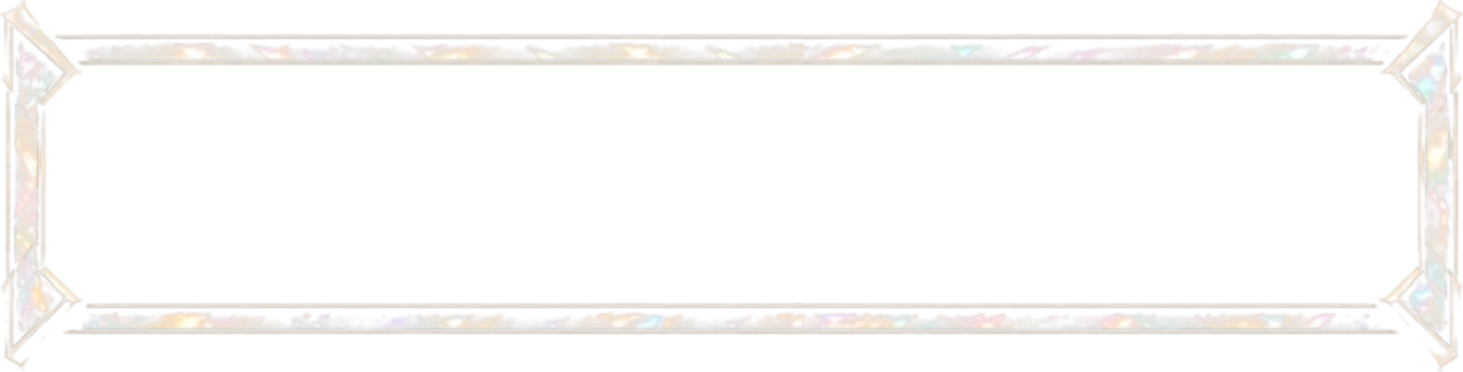
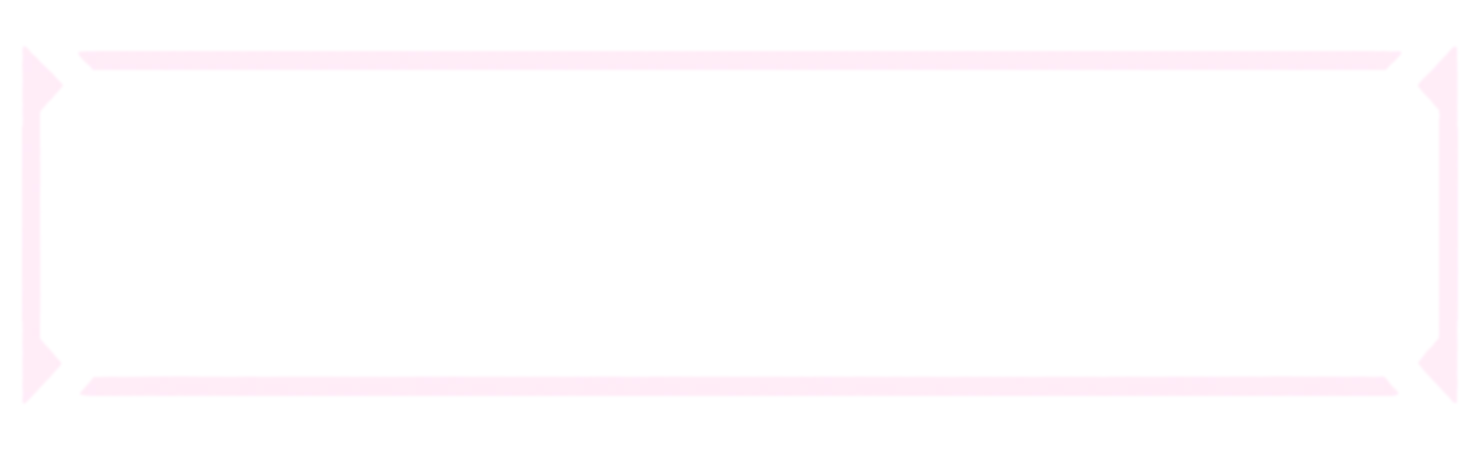
Reveal table: Turn all over first, Finish once every card is turned; no stray effect line when the Roulette tab opens (the skinned strip has its height at once); Prismatic frame redone with a channel where liquid opal flows, its colors gliding and shifting all the time; pointer glows aligned with th

Changed region(s): [[0.0, 0.0, 1.0, 1.0]]

diff --git a/ui/app.css b/ui/app.css
@@ -2009,9 +2009,9 @@ img.ring-master { box-shadow: 0 0 10px rgba(255, 211, 107, .75); }
   --frame: url("hud/infernal_frame.webp"); --frame-glow: url("hud/infernal_frame_glow.webp"); --ptr-t: url("hud/infernal_ptr_t.webp"); --ptr-t-glow: url("hud/infernal_ptr_t_glow.webp"); --ptr-b: url("hud/infernal_ptr_b.webp"); --ptr-b-glow: url("hud/infernal_ptr_b_glow.webp"); }
 :root[data-roulette="infernal"] .gs-strip { --k: 0.235; }
 :root[data-roulette="prism"] .strip-hud { display: block; }
-:root[data-roulette="prism"] :is(.strip, .gs-strip) { --edge-t: 32; --edge-b: 34; --edge-s: 4; --k: 0.5; --top: 71; --bottom: 72; --left: 99; --right: 96; --pw: 140; --pth: 109; --pbh: 114;
+:root[data-roulette="prism"] :is(.strip, .gs-strip) { --edge-t: 36; --edge-b: 43; --edge-s: 7; --k: 0.412; --top: 85; --bottom: 93; --left: 112; --right: 111; --pw: 184; --pth: 125; --pbh: 145;
   --frame: url("hud/prism_frame.webp"); --frame-glow: url("hud/prism_frame_glow.webp"); --ptr-t: url("hud/prism_ptr_t.webp"); --ptr-t-glow: url("hud/prism_ptr_t_glow.webp"); --ptr-b: url("hud/prism_ptr_b.webp"); --ptr-b-glow: url("hud/prism_ptr_b_glow.webp"); }
-:root[data-roulette="prism"] .gs-strip { --k: 0.235; }
+:root[data-roulette="prism"] .gs-strip { --k: 0.194; }
 :root[data-roulette="void"] .strip-hud { display: block; }
 :root[data-roulette="void"] :is(.strip, .gs-strip) { --edge-t: 43; --edge-b: 45; --edge-s: 5; --k: 0.357; --top: 98; --bottom: 102; --left: 116; --right: 113; --pw: 184; --pth: 134; --pbh: 148;
   --frame: url("hud/void_frame.webp"); --frame-glow: url("hud/void_frame_glow.webp"); --ptr-t: url("hud/void_ptr_t.webp"); --ptr-t-glow: url("hud/void_ptr_t_glow.webp"); --ptr-b: url("hud/void_ptr_b.webp"); --ptr-b-glow: url("hud/void_ptr_b_glow.webp"); }
@@ -2023,7 +2023,7 @@ img.ring-master { box-shadow: 0 0 10px rgba(255, 211, 107, .75); }
 :root:is([data-roulette="infernal"], [data-roulette="prism"], [data-roulette="void"], [data-roulette="gold"]) :is(.strip, .gs-strip) {   /* the art ends under the middle of the rails and side bars */
   --et: calc((var(--edge-t) + var(--top)) / 2 * var(--k) * 1px); --eb: calc((var(--edge-b) + var(--bottom)) / 2 * var(--k) * 1px);
   --es: calc(var(--left) * .45 * var(--k) * 1px); }
-:root:is([data-roulette="infernal"], [data-roulette="prism"], [data-roulette="void"], [data-roulette="gold"]) .strip { height: 298px; border-color: transparent; border-radius: 0; box-shadow: none;
+:root:is([data-roulette="infernal"], [data-roulette="prism"], [data-roulette="void"], [data-roulette="gold"]) .strip { transition: none; height: 298px; border-color: transparent; border-radius: 0; box-shadow: none;
   padding: var(--et) var(--es) var(--eb); background-clip: content-box; }
 /* nothing of the strip outside the frame: its art, edge shadows and flash stay within the rails */
 :root:is([data-roulette="infernal"], [data-roulette="prism"], [data-roulette="void"], [data-roulette="gold"]) .strip-roll { inset: var(--et) var(--es) var(--eb); overflow: hidden; }
@@ -2073,8 +2073,18 @@ img.ring-master { box-shadow: 0 0 10px rgba(255, 211, 107, .75); }
 .strip-hud .ht { mix-blend-mode: multiply; background: linear-gradient(100deg, transparent 0 30%, rgba(255, 168, 208, .95) 36%,
   rgba(132, 222, 232, .95) 41%, rgba(186, 160, 255, .95) 46%, transparent 50% 100%) 100% 0 / 260% 100% no-repeat; }
 :root[data-roulette="prism"] .strip-hud :is(.hs, .ht) { display: block; animation: hudSweep 6.5s ease-in-out infinite; }
+/* the opal never stops shifting: its hues turn slowly, and a sheet of iridescence glides along the rails */
+:root[data-roulette="prism"] .strip-hud .ht { mix-blend-mode: color; opacity: .62; animation: iriGlide 14s linear infinite;
+  background: repeating-linear-gradient(100deg, #ff9fcf 0, #8fe6f0 140px, #c3a6ff 280px, #ffe39a 420px, #ff9fcf 560px) 0 0 / 560px 100%; }
+@keyframes iriGlide { to { background-position: 560px 0; } }
+:root[data-roulette="prism"] .strip-hud .hm, :root[data-roulette="prism"] .launch .lm { animation: iriHue 11s ease-in-out infinite alternate; }
+:root[data-roulette="prism"] .strip-hud b s { animation: matterPos 9s linear infinite, iriHue 11s ease-in-out infinite alternate; }
+@keyframes iriHue { from { filter: hue-rotate(-50deg) saturate(1.9) contrast(1.08); } to { filter: hue-rotate(70deg) saturate(1.9) contrast(1.08); } }
+/* the pearly glow would wash the opal out: kept around it only, faint */
+:root[data-roulette="prism"] .strip-hud b::after { display: none; }
+:root[data-roulette="prism"] .strip-hud :is(.hg, .hb) { opacity: .35; animation: none; }
 :root[data-roulette="prism"] .strip.spinning .strip-hud :is(.hs, .ht, b), :root[data-roulette="prism"] .gs-row.spinning .strip-hud :is(.hs, .ht, b) { animation-duration: 2s; }
-:root[data-roulette="prism"] .strip-hud .hf { filter: brightness(.86); }
+
 @keyframes hudSweep { 0%, 12% { background-position: 100% 0; } 60%, 100% { background-position: 0% 0; } }
 :root[data-roulette="prism"] .strip-hud b { animation: ptrGlint 6.5s ease-in-out infinite; }
 @keyframes ptrGlint { 0%, 30%, 44%, 100% { filter: none; } 36% { filter: brightness(1.9) drop-shadow(0 0 6px rgba(255, 240, 250, .9)); } }
@@ -2137,7 +2147,7 @@ img.ring-master { box-shadow: 0 0 10px rgba(255, 211, 107, .75); }
 :root[data-roulette="prism"] .rl-page .launch .lm { display: block; -webkit-mask-box-image-source: url("hud/prism_primary_glow.webp"); -webkit-mask-box-image-slice: 74 74 74 74; -webkit-mask-box-image-width: 25px 25px 25px 25px; -webkit-mask-box-image-repeat: stretch; }
 :root[data-roulette="infernal"] { --matter: url("hud/infernal_matter.webp"); --matter-blend: screen; }
 :root[data-roulette="void"] { --matter: url("hud/void_matter.webp"); }
-:root[data-roulette="prism"] { --matter: url("hud/prism_matter.webp"); --matter-blend: soft-light; }
+:root[data-roulette="prism"] { --matter: url("hud/prism_matter.webp"); --matter-blend: overlay; }
 :root:is([data-roulette="infernal"], [data-roulette="void"], [data-roulette="prism"]) .strip-hud .hm { display: block; }
 :root:is([data-roulette="infernal"], [data-roulette="void"], [data-roulette="prism"]) .strip-hud b s { display: block; }
 .strip.spinning .strip-hud .hm s { animation-duration: 3s; }

diff --git a/ui/js/binder.js b/ui/js/binder.js
@@ -597,8 +597,8 @@ function openBooster(ids) {
     if (all) all.onclick = () => revealAll(queue.slice(i));
     box.querySelector(".bk-shade").onclick = close;
   };
-  // every card left at once, in two steps: dealt face down on the table, each one turned over with a click; or all of
-  // them, one after another (the best last)
+  // every card left at once: dealt face down on the table, each one turned over with a click or all of them one after
+  // another (the best last); once they are all turned, Finish
   const revealAll = async (rest) => {
     await call("binder_open", { ids: rest.map((x) => x.id) });
     box.innerHTML = `<div class="bk-shade"></div>
@@ -608,7 +608,7 @@ function openBooster(ids) {
           <div class="bk-face bk-front">${cardHTML(c, { level: c.level })}</div><div class="bk-face bk-rear">${backHTML()}</div></div></div>`).join("")}</div>
         <p class="bk-hint">${esc(t("Clique une carte pour la retourner, ou retourne-les toutes."))}</p>
         <p class="bk-sum"></p>
-        <div class="bk-btns"><button class="btn" data-flipall>${esc(t("Tout retourner"))}</button><button class="btn-gold" data-done>${esc(t("Terminer"))}</button></div>
+        <div class="bk-btns"><button class="btn-gold" data-flipall>${esc(t("Tout retourner"))}</button><button class="btn-gold" data-done hidden>${esc(t("Terminer"))}</button></div>
       </div>`;
     box.querySelector(".bk-shade").onclick = close;
     box.querySelector("[data-done]").onclick = close;
@@ -624,7 +624,8 @@ function openBooster(ids) {
         .filter(([lv]) => n(lv)).map(([lv, one, many]) => `${n(lv)} ${t(n(lv) > 1 ? many : one).toLowerCase()}`).join(" · ");
       sum.classList.add("on");
       box.querySelector(".bk-hint").classList.add("off");
-      all.hidden = true;
+      all.hidden = true;   // every card turned: the only step left is to finish
+      box.querySelector("[data-done]").hidden = false;
     };
     // quiet: in a run, only the legendaries chime (and the last card)
     const flip = (k, quiet = false) => {
